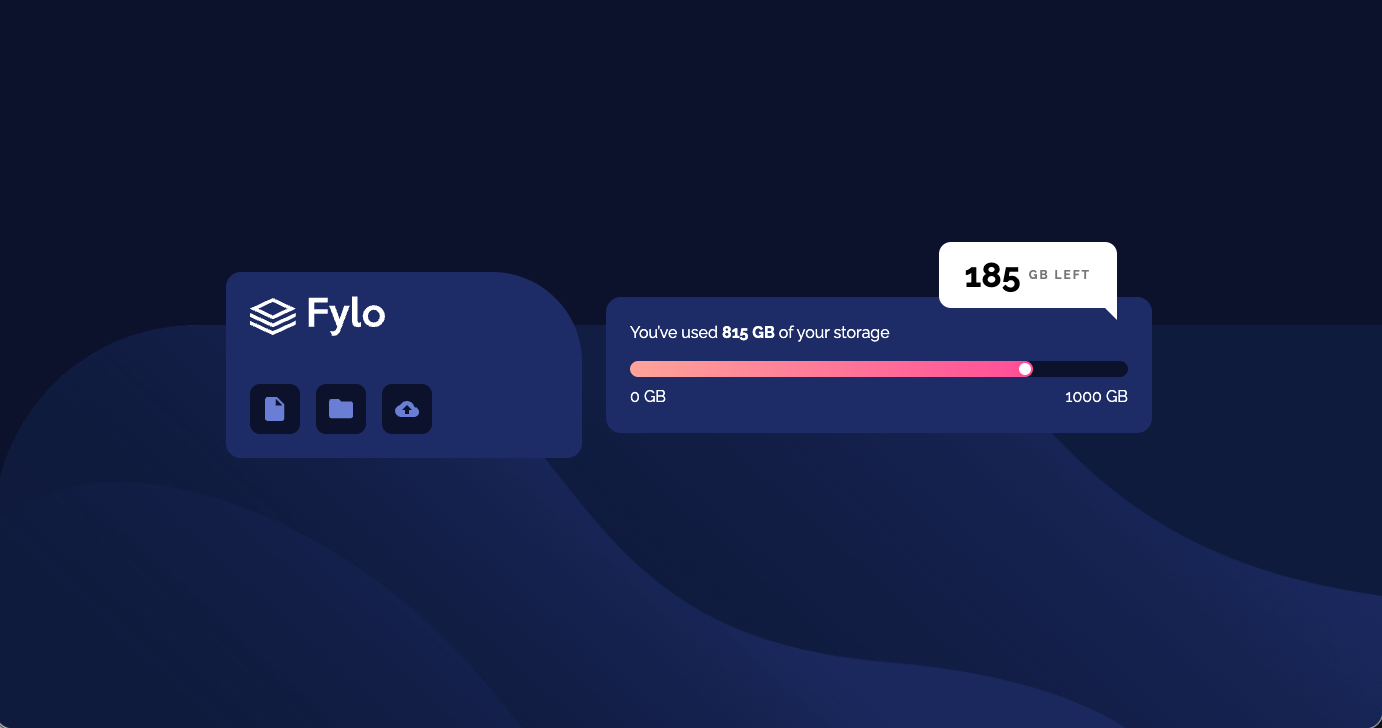
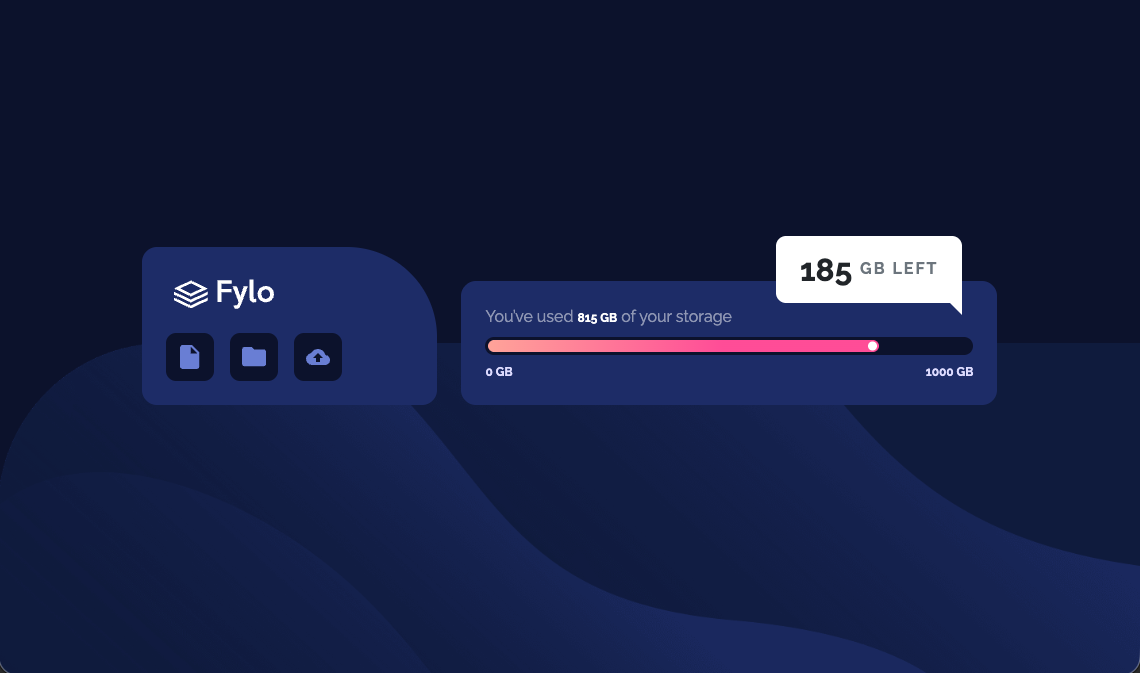
final draft with screenshot.jpg

diff --git a/styles.css b/styles.css
@@ -8,17 +8,10 @@ body {
     font-family: 'Raleway', sans-serif;
     min-height: 100vh;
     background-color: hsl(229, 57%, 11%);
-    display: flex;
-    justify-content: center;
-    align-items: center;
     background-image: url("img/bg-desktop.png");
     background-repeat: no-repeat;
     background-position: bottom;
     background-size: 100% auto;
-}
-
-.container {
-    margin-bottom: -35px; /* adjust cards on page */
 }
 
 .fylo-logo {
@@ -48,15 +41,6 @@ body {
     font-size: 12px;
     font-weight: 700;
 }
-
-/* .logo-card img {
-    display: block;
-    margin-bottom: 34px;
-} */
-
-/* .fylo-card:not(.logo-card) {
-    margin-top: 35px;
-} */
 
 .icon-box {
     width: 48px; /* controls height fylo card */
@@ -98,7 +82,7 @@ body {
 
 .dot {
     position: absolute;
-    right: 3px;
+    right: 4px;
     top: 50%;
     transform: translateY(-50%);
     width: 5px;
@@ -111,11 +95,9 @@ body {
 .storage-badge {
     position: absolute;
     top: -45px;
-    right: 35px; /*changing from 30px */
+    right: 35px;
     background: white;
-    padding: 10px 24px; /* bubble dimensions 24x36 is good
-/*    font-size: 32px; /* changed from 32px - to reset bootstrap styling
-    font-weight: 700; */
+    padding: 10px 24px; 
     border-radius: 10px 10px 0px 10px;
     display: flex;
     align-items: center;
@@ -123,7 +105,7 @@ body {
 } 
 
 .storage-number {
-    font-size: 38px; /* changed from 34 */
+    font-size: 38px;
     font-weight: 700;
     color: #000;
 }

diff --git a/index.html b/index.html
@@ -18,12 +18,12 @@
 </head>
 
 <body class="d-flex justify-content-center align-items-center">
-  <div class="container">
+  <div class="container pb-4">
     <div class="row g-4 justify-content-center align-items-end">
       <div class="col-md-4">
 
         <div class="fylo-card logo-card p-4">
-          <img src="img/logo.svg" class="fylo-logo" alt="Fylo logo">
+          <img src="img/logo.svg" class="fylo-logo mt-2 ms-2 mb-4" alt="Fylo logo">
 
           <div class="d-flex gap-3">
 
@@ -45,8 +45,8 @@
       <div class="col-md-7">
         <div class="fylo-card p-4 position-relative">
 
-          <p class="text-white">
-            You’ve used <strong>815 GB</strong> of your storage
+          <p class="text-white-50 mb-2 fs-6">
+            You’ve used <span class="text-white fw-bold">815 GB</span> of your storage
           </p>
 
           <div class="progress">

diff --git a/README.md b/README.md
@@ -40,6 +40,7 @@ Once this initial structure was completed I made modifications to the body and c
 2. Standard CSS can be layered on top of bootstrap utilities. 
 3. CSS pseudo-element
   - .storage-badge::after
+5. bootstrap utilities can replace flexbox properties, and the way I started this challenge by starting with known CSS code first, made this challenge more difficult than it needed to be. 
 
 ## AI Collaboration
   - ChatGBT
